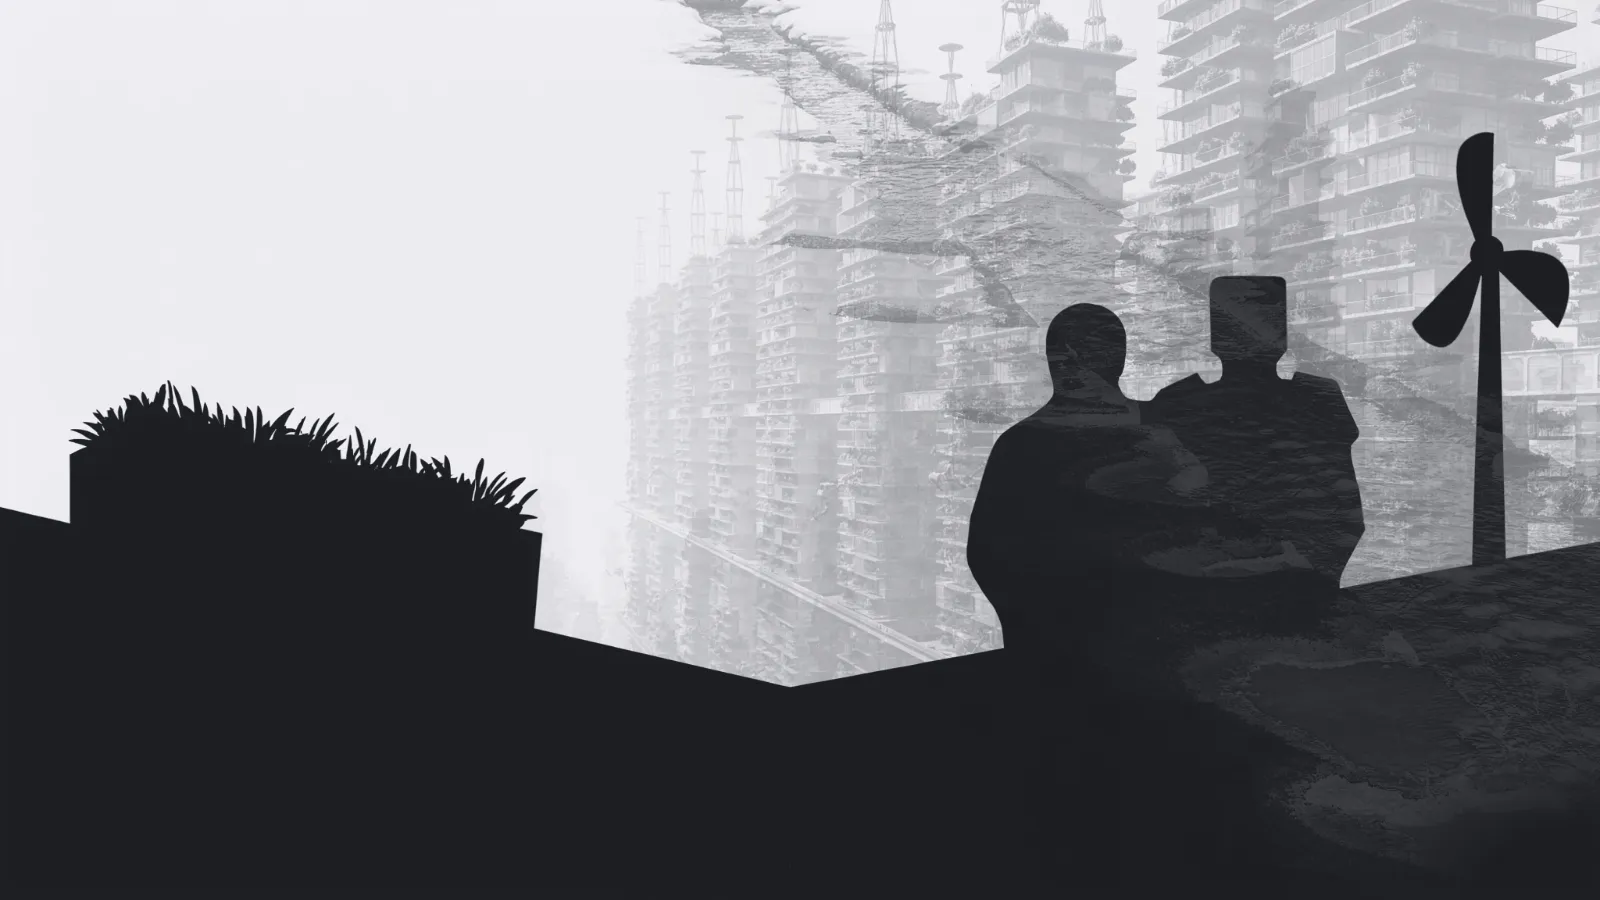
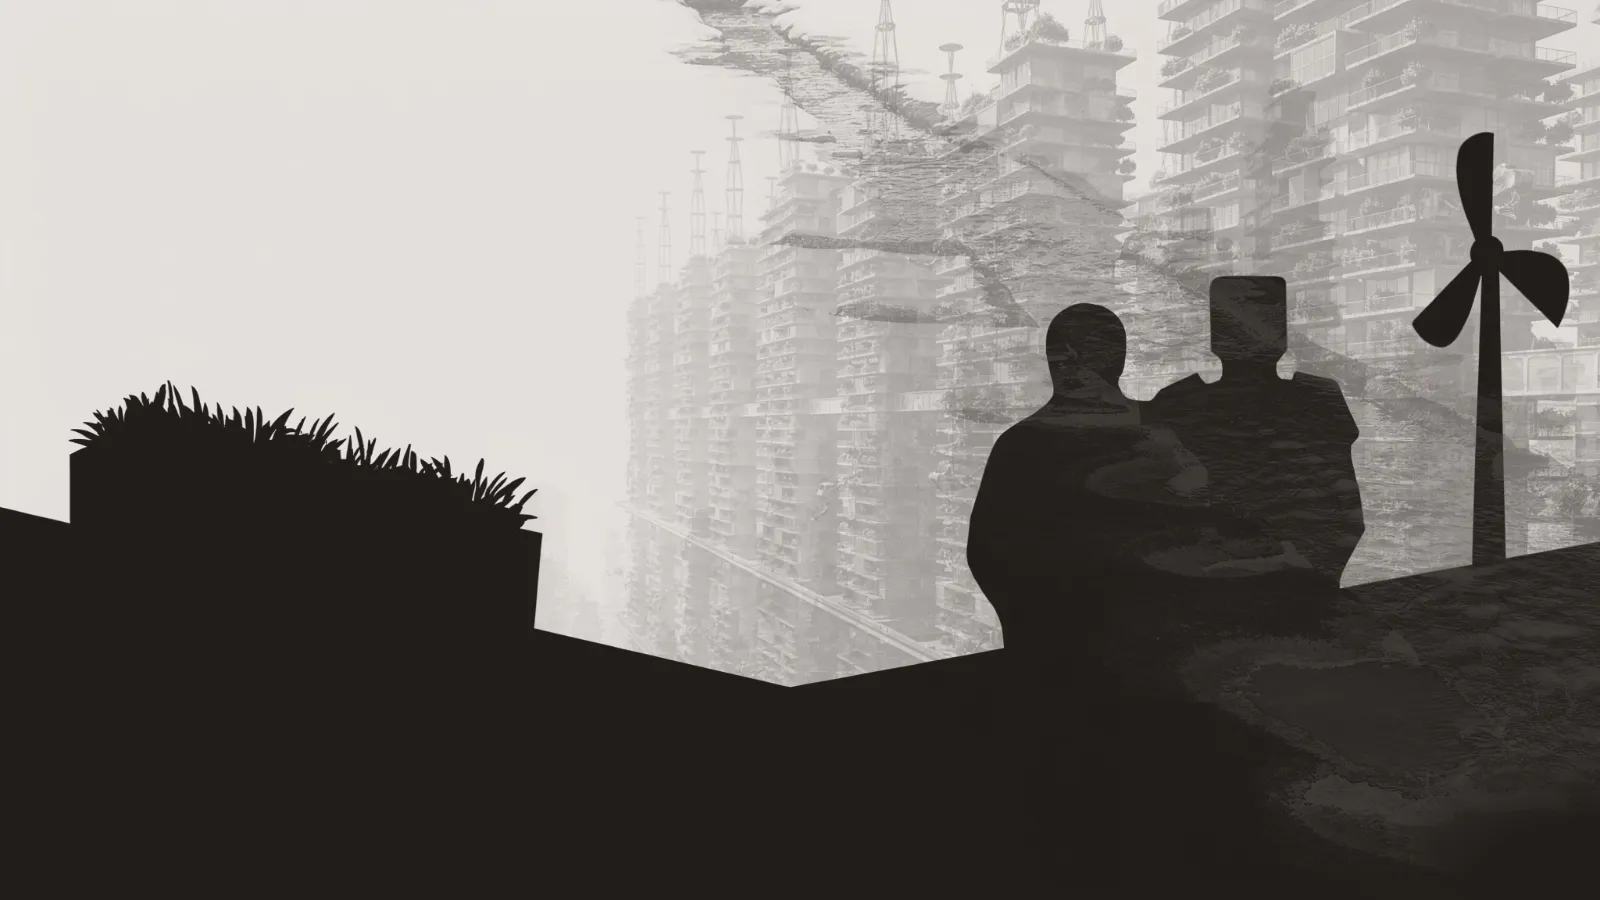
feat: Lumen checkpoint A — Geist type, Fraunces for the wordmark only (ui-kit 0.30) (#36)
* chore: ui-kit 0.30 — Geist type, Fraunces for the wordmark only

Bumps @sondalab/ui-kit ^0.28.0 -> ^0.30.0 (0.29 warm amber neutrals,
0.30 Geist / Geist Mono, --sl-font-brand, the micro label register).

- Fonts: Base.astro loads the kit's fonts.css; the three Fontsource
  packages and the --sl-font-* pins in site.css are gone, so the kit's
  tokens apply. The kit's Fraunces carries opsz, which is all the
  wordmark uses (SOFT/WONK were at their defaults there); rendered
  side by side at opsz 40 the two files draw the same "sondalab".
- Wordmark: --sl-font-brand. Every other heading (hero claim, section
  h2s, product/post/apparel titles, "Transmissions", rail claims, row
  names, article h2/h3) moves to Geist 600 via --sl-font-display, with
  the Fraunces variation settings removed and Lumen tracking by size
  (-0.05em display set solid, -0.045em h2 scale, -0.035/-0.03em below).
  Standfirst, product tagline and the novella are Geist 400.
- The hero accent word and the novella are upright: Geist has no italic
  and the kit serves none.
- The light mono signature is re-matched by measured stem width, in one
  place (site.css): Martian 100/200/300 -> Geist Mono 150/300/400.
- Glass numeral gutter re-cut for the narrower figure (146px at the cap,
  was 168): clearance to the row rule is unchanged, 1px at 660 to 38px
  at 1440.
- Nav collapse 52rem -> 48rem: the full nav now fits from 754px (was
  824px).
- CRT canvas text draws in "Geist Mono".
[…]

diff --git a/src/styles/site.css b/src/styles/site.css
@@ -4,10 +4,18 @@
  * ------------------------------------------------------------------ */
 
 :root {
-  /* Prefer the self-hosted variable faces; DS names stay as fallback. */
-  --sl-font-display: 'Fraunces Variable', 'Fraunces', Georgia, serif;
-  --sl-font-sans: 'Instrument Sans Variable', 'Instrument Sans', system-ui, sans-serif;
-  --sl-font-mono: 'Martian Mono Variable', 'Martian Mono', ui-monospace, 'SF Mono', Menlo, monospace;
+  /* The faces are the kit's tokens (Geist, Geist Mono, and Fraunces as
+     --sl-font-brand for the wordmark only), loaded by fonts.css in Base.astro.
+
+     The light mono is this site's signature, cut in Martian Mono at 100, 200
+     and 300 until ui-kit 0.30. Geist Mono draws a thinner stem at the same
+     weight number, so each step is re-matched by measured stem width at equal
+     font-size (Martian 100/200/300 = 9.2/15.3/20.8px at 200px; Geist Mono
+     150/300/400 = 9.2/14.2/17.9px, the 400 matching on stem-to-cap ratio).
+     One place to tune all three. */
+  --mono-thin: 150;
+  --mono-hair: 300;
+  --mono-light: 400;
 
   /* Layout */
   --wrap: 76rem;
@@ -64,7 +72,7 @@ a { color: inherit; }
  * --------------------------------------------------------------------- */
 
 /* The site's measure is 76rem with a 4rem gutter cap, not the kit's 78/6rem:
-   the header's nav collapse (52rem) and the product rows' numeral gutter were
+   the header's nav collapse (48rem) and the product rows' numeral gutter were
    measured against it (scripts/layout-probe.mjs). The kit declares the gutter
    in-class, so it is re-pointed here rather than on :root. */
 .sl-wrap {
@@ -72,12 +80,13 @@ a { color: inherit; }
   max-width: var(--wrap);
 }
 
-/* The site's eyebrow is lighter (300, not the kit's 500) and carries a leading
-   accent dash; inline-flex is what seats the dash, and three page heads
-   (blog, post, product) rely on it being inline-flex. The dash is a 1px line,
-   so it takes the accent-as-text role: the raw light-theme accent is a fill. */
+/* The site's eyebrow is lighter (the light mono, not the kit's 500) and
+   carries a leading accent dash; inline-flex is what seats the dash, and three
+   page heads (blog, post, product) rely on it being inline-flex. The dash is a
+   1px line, so it takes the accent-as-text role: the raw light-theme accent is
+   a fill. Size and tracking are the kit's micro register (0.30). */
 .sl-eyebrow {
-  font-weight: 300;
+  font-weight: var(--mono-light);
   display: inline-flex;
   align-items: center;
   gap: 0.6em;
@@ -89,23 +98,25 @@ a { color: inherit; }
   background: var(--slc-accent-text);
 }
 
+/* Display and section heads are Geist 600 since ui-kit 0.30 (Fraunces is the
+   wordmark's alone). Geist closes up as it grows, so the tracking follows the
+   size: the kit's -0.05em on display type, set solid, and Lumen's -0.045em at
+   the h2 scale (Lumen: 34px -0.045em, 44px -0.05em, 84px -0.06em). */
 .display {
   font-family: var(--sl-font-display);
-  font-weight: 380;
-  font-variation-settings: 'opsz' 144, 'SOFT' 0, 'WONK' 1;
+  font-weight: 600;
   font-size: var(--step-display);
-  line-height: 0.98;
-  letter-spacing: -0.02em;
+  line-height: 1;
+  letter-spacing: -0.05em;
   margin: 0;
 }
 
 .h2 {
   font-family: var(--sl-font-display);
-  font-weight: 420;
-  font-variation-settings: 'opsz' 72, 'WONK' 1;
+  font-weight: 600;
   font-size: var(--step-h2);
   line-height: 1.04;
-  letter-spacing: -0.015em;
+  letter-spacing: -0.045em;
   margin: 0;
 }
 
@@ -127,7 +138,7 @@ a { color: inherit; }
    (the kit's index is muted): a lighter, larger figure in the accent-as-text
    role, which the inversion band (Thesis) re-points to the uncapped accent. */
 .sl-section__idx {
-  font-weight: 200;
+  font-weight: var(--mono-hair);
   font-size: var(--sl-text-sm);
   letter-spacing: 0.1em;
   color: var(--slc-accent-text);
@@ -226,7 +237,7 @@ a { color: inherit; }
   z-index: 2;
   display: block;
   font-family: var(--sl-font-mono);
-  font-weight: 200;
+  font-weight: var(--mono-hair);
   font-size: var(--step-numeral);
   line-height: 0.8;
   letter-spacing: -0.02em;
@@ -250,13 +261,16 @@ a { color: inherit; }
   position: relative;
   transition: transform 420ms cubic-bezier(0.22, 0.61, 0.28, 1);
   /* THE GUTTER, declared once because getting it wrong is an overlap. The
-     figure is 168px at the 7rem cap and starts --gnum-inset from the slot's
-     left edge, so the card's own content has to begin past the sum of the two
-     — and a card with a negative inline margin (the product rows bleed past
-     their list) has to add that back, or its text starts further left than the
-     slot does and runs under the numeral. */
+     figure is 146px at the 7rem cap (two Geist Mono digits, 1.3em) and starts
+     --gnum-inset from the slot's left edge, so the card's own content has to
+     begin past the sum of the two — and a card with a negative inline margin
+     (the product rows bleed past their list) has to add that back, or its
+     text starts further left than the slot does and runs under the numeral.
+     Re-cut for Geist Mono (ui-kit 0.30): the Martian Mono figure was 1.5em, so
+     the gutter gives back the 0.2em, which holds the measured clearance from
+     the figure to the row's rule where it was (1px at 660px, 38px at 1440). */
   --gnum-inset: clamp(0.9rem, 2.4vw, 1.7rem);
-  --gnum-gutter: clamp(7rem, 18vw, 14.5rem);
+  --gnum-gutter: clamp(6.45rem, 16.4vw - 0.2rem, 13.1rem);
 }
 .gnum-slot:has(> .sl-fx-glass--pane:hover:not(:disabled)),
 .gnum-slot:has(> .sl-fx-glass--pane:focus-visible) {
@@ -318,18 +332,18 @@ a { color: inherit; }
 .article-prose h2,
 .article-prose h3 {
   font-family: var(--sl-font-display);
-  font-variation-settings: 'opsz' 48, 'WONK' 1;
+  font-weight: 600;
   line-height: 1.15;
-  letter-spacing: -0.015em;
+  letter-spacing: -0.03em;
   color: var(--sl-text-primary);
 }
-.article-prose h2 { font-weight: 440; font-size: var(--step-h3); margin: 2.75rem 0 1rem; }
-.article-prose h3 { font-weight: 480; font-size: var(--sl-text-xl); margin: 2.25rem 0 0.85rem; }
+.article-prose h2 { font-size: var(--step-h3); margin: 2.75rem 0 1rem; }
+.article-prose h3 { font-size: var(--sl-text-xl); margin: 2.25rem 0 0.85rem; }
 /* Section headers read as log markers, matching the transmissions index. */
 .article-prose h2::before {
   content: '// ';
   font-family: var(--sl-font-mono);
-  font-weight: 300;
+  font-weight: var(--mono-light);
   font-size: 0.7em;
   color: var(--slc-accent-text);
 }

diff --git a/src/lib/crt-terminal.ts b/src/lib/crt-terminal.ts
@@ -296,7 +296,7 @@ export function createTerminal(opts: TerminalOptions = {}) {
       row += line.h;
       if (line.kind === 'blank') return;
 
-      ctx.font = `${Math.round(cellH * st.size)}px "Martian Mono Variable", ui-monospace, Menlo, monospace`;
+      ctx.font = `${Math.round(cellH * st.size)}px "Geist Mono", ui-monospace, Menlo, monospace`;
       let x = cellW * 3;
 
       if (line.kind === 'prompt') {
@@ -345,7 +345,7 @@ export function createTerminal(opts: TerminalOptions = {}) {
     const midRow = Math.floor(ROWS / 2);
     const x = cellW * 3;
     const mono = (k: number) =>
-      `${Math.round(cellH * k)}px "Martian Mono Variable", ui-monospace, Menlo, monospace`;
+      `${Math.round(cellH * k)}px "Geist Mono", ui-monospace, Menlo, monospace`;
 
     ctx.font = mono(0.62);
     ctx.fillStyle = style.meta.color;

diff --git a/src/lib/crt-scene.ts b/src/lib/crt-scene.ts
@@ -448,7 +448,7 @@ export async function createScene(id: string | string[], opts: SceneOptions = {}
 
     ctx.globalCompositeOperation = 'source-over';
     ctx.textBaseline = 'middle';
-    ctx.font = '20px "Martian Mono Variable", ui-monospace, Menlo, monospace';
+    ctx.font = '20px "Geist Mono", ui-monospace, Menlo, monospace';
     ctx.fillStyle = fade(token('--sl-text-primary'), 0.55);
     ctx.fillText('-- carrier lost --', 40, canvas.height - 46);
     dirty = false;
